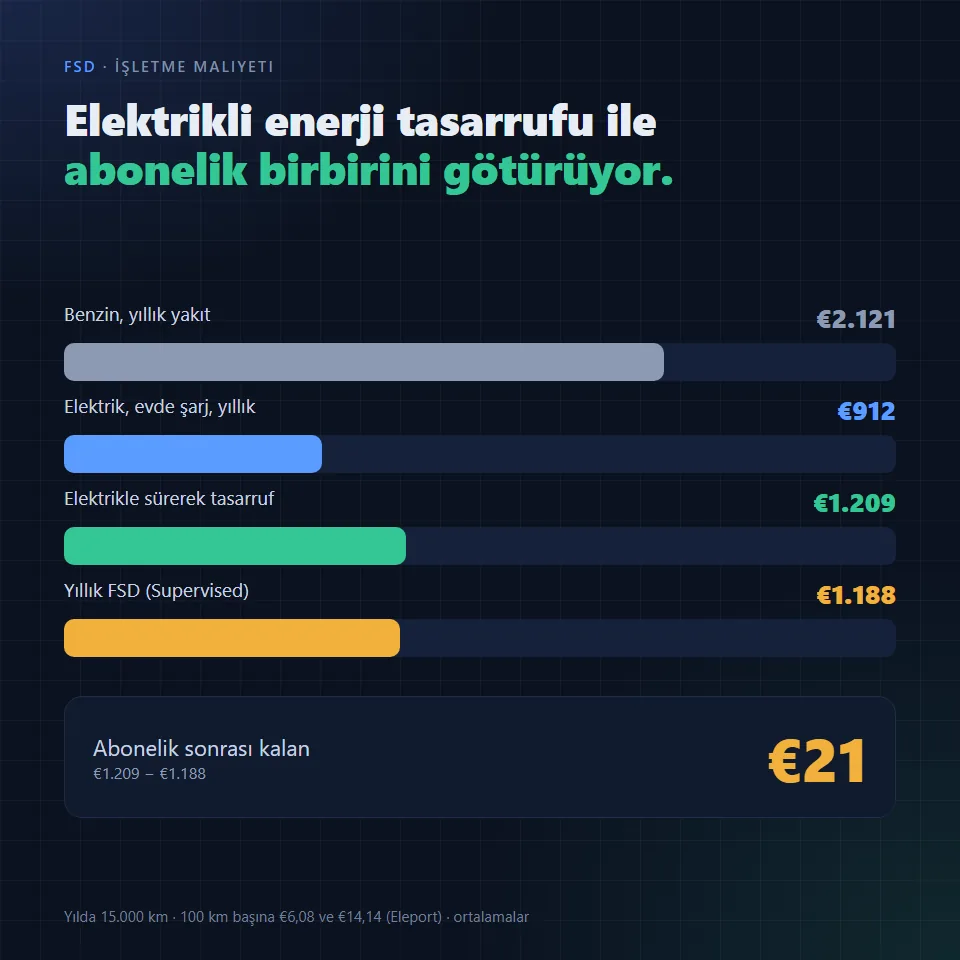
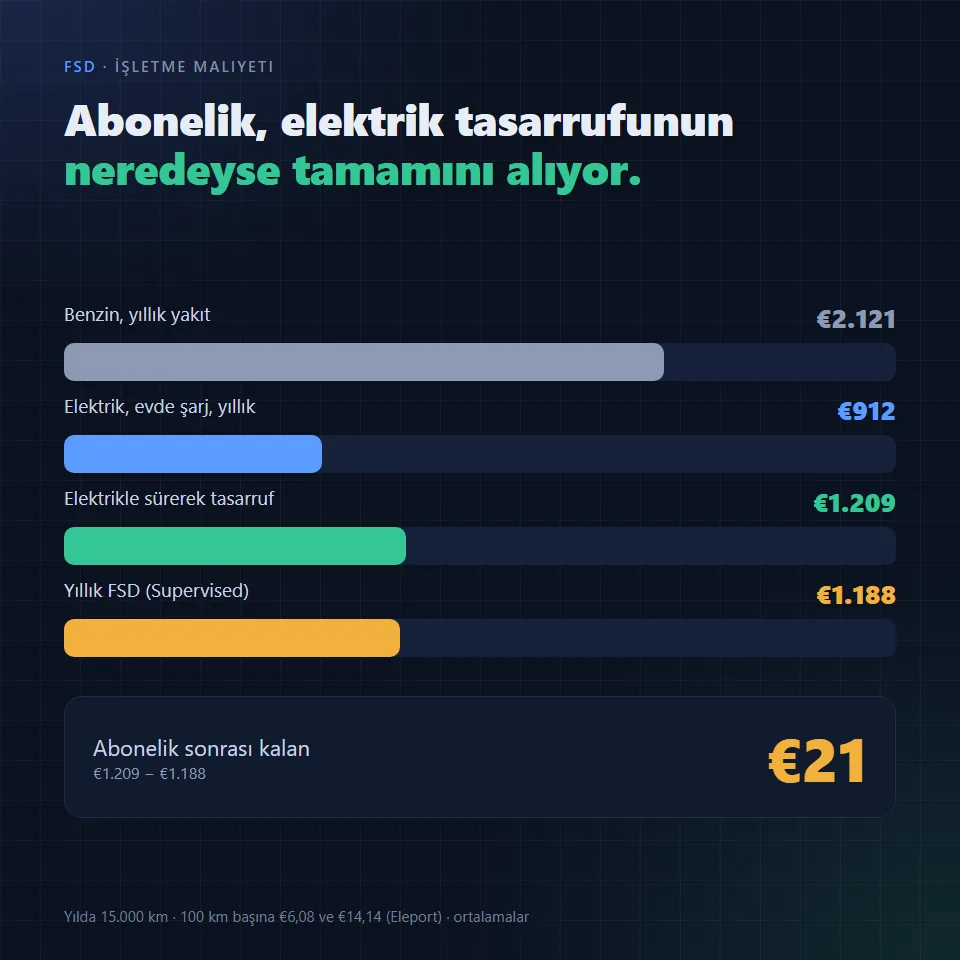
fix: address review of the Tesla FSD draft (lane centering, article cite, hedges, cover)
Basic Autopilot claim narrowed to lane centering, GSR cited without article
number, eleven countries, softer wording, Dick Lovett flagged as low
confidence, balanced cover, chart titles say nearly.

Changed region(s): [[0.0625, 0.0938, 0.7812, 0.2188]]

diff --git a/blog/content/tesla-fsd-subscription-europe/nl.md b/blog/content/tesla-fsd-subscription-europe/nl.md
@@ -7,7 +7,7 @@ kind: essay
 status: hypothesis
 draft: true
 evidence:
-  confidence: 'Gemiddeld. De prijzen en kostentabellen zijn mijn eigen berekeningen met cijfers uit de bronnen. De bronnen zijn nieuws- en vergelijkingssites, gelezen op 2026-11-19, en prijzen in een configurator kunnen veranderen. Het voorstel is mijn mening, geen bevinding.'
+  confidence: 'Gemiddeld. De prijzen en kostentabellen zijn mijn eigen berekeningen met cijfers uit de bronnen. De bronnen zijn nieuws- en vergelijkingssites, gelezen op 2026-11-19, en prijzen in een configurator kunnen veranderen. De Britse onderhoudscijfers komen uit een zoekresultaat omdat de pagina zelf niet te openen was; lees ze met lage zekerheid. Het voorstel is mijn mening, geen bevinding.'
   basedOn:
     - 'Openbare berichtgeving over Tesla FSD (Supervised) in Nederland en Europa: Electrek, teslablog.eu, ArenaEV, Not a Tesla App en andere, onderaan vermeld'
     - 'Een vergelijking van energiekosten (Eleport) en Britse onderhoudscijfers (Dick Lovett)'
@@ -20,6 +20,7 @@ aiAssistance:
   assisted:
     - 'Claude controleerde elke bewering in mijn concept aan de hand van de genoemde pagina’s en markeerde wat die pagina’s niet ondersteunen'
     - 'Claude rekende de kostentabellen na en maakte de grafieken'
+    - 'Claude bewerkte mijn formuleringen, voegde de bronlinks en de voorbehouden in het juridische deel toe en verwerkte de correcties uit de feitencontrole'
     - 'Claude zette mijn concept om naar het blogformaat; ik beslis wat er wordt gepubliceerd'
 translation:
   from: 2026-11-19
@@ -44,9 +45,9 @@ Deze punten komen uit openbare bronnen, die onderaan dit artikel staan.
 
 - FSD (Supervised) is goedgekeurd in Nederland. De RDW keurde het op 10 april 2026 goed voor auto’s met Hardware 4, en Electrek meldt het als de eerste goedkeuring in Europa ([Electrek, 14 april 2026](https://electrek.co/2026/04/14/tesla-fsd-europe-hw3-owners-dutch-claim/)).
 - In Nederland kost FSD (Supervised) €99 per maand na een proefperiode van een maand ([teslablog.eu](https://teslablog.eu/blog/tesla-fsd-vs-enhanced-autopilot-europe-2026/), bijgewerkt op 3 oktober 2026; [Not a Tesla App](https://www.notateslaapp.com/news/3956/tesla-launches-fsd-subscriptions-in-the-netherlands)).
-- Eenmalige aankoop is niet meer mogelijk. Die optie eindigde op 15 mei 2026 in Nederland en op 21 mei in de rest van Europa ([Not a Tesla App](https://www.notateslaapp.com/news/4104/tesla-to-end-one-time-fsd-purchases-across-europe-this-month), [InsideEVs](https://insideevs.com/news/796684/tesla-fsd-subscription-europe/)). Tot dan kostte het €7.500 in de Nederlandse configurator ([Electrek, 12 mei 2026](https://electrek.co/2026/05/12/tesla-removes-basic-autopilot-netherlands-fsd-only/)). *[EIGENAARSVAK: controleer op de dag van publicatie tesla.com/nl_nl en schrijf op wat de configurator toont.]*
-- Electrek meldt dat de Nederlandse configurator Basic Autopilot (rijstrookcentrering en adaptieve cruisecontrol) niet meer standaard aanbiedt bij nieuwe bestellingen; de basisauto houdt alleen de noodrijstrookassistentie die de EU voorschrijft ([Electrek, 12 mei 2026](https://electrek.co/2026/05/12/tesla-removes-basic-autopilot-netherlands-fsd-only/)). *[EIGENAARSVAK: controleer dit op uw eigen auto en voeg uw screenshot toe.]*
-- Wettelijk verplichte veiligheidsfuncties blijven standaard. Onder de Europese General Safety Regulation zijn automatisch noodremmen en noodrijstrookassistentie verplicht op nieuwe auto’s ([Verordening (EU) 2019/2144, artikel 7](https://eur-lex.europa.eu/legal-content/EN/TXT/?uri=CELEX:32019R2144)) en vallen ze niet onder het abonnement. Dit artikel gaat over rijassistentie die apart wordt verkocht, niet over wettelijk verplichte veiligheidsfuncties.
+- Eenmalige aankoop is niet meer mogelijk. Die optie eindigde op 15 mei 2026 in Nederland en op 21 mei in het grootste deel van de rest van Europa ([Not a Tesla App](https://www.notateslaapp.com/news/4104/tesla-to-end-one-time-fsd-purchases-across-europe-this-month), [InsideEVs](https://insideevs.com/news/796684/tesla-fsd-subscription-europe/)). Tot dan kostte het €7.500 in de Nederlandse configurator ([Electrek, 12 mei 2026](https://electrek.co/2026/05/12/tesla-removes-basic-autopilot-netherlands-fsd-only/)). *[EIGENAARSVAK: controleer op de dag van publicatie tesla.com/nl_nl en schrijf op wat de configurator toont.]*
+- Electrek meldt dat de Nederlandse basisauto niet langer rijstrookcentrering (Autosteer) heeft en dat Basic Autopilot bij nieuwe bestellingen niet meer als optie wordt aangeboden; de basisauto houdt alleen de noodrijstrookassistentie die de EU voorschrijft ([Electrek, 12 mei 2026](https://electrek.co/2026/05/12/tesla-removes-basic-autopilot-netherlands-fsd-only/)). *[EIGENAARSVAK: controleer dit op uw eigen auto, voeg uw screenshot toe en schrijf of adaptieve cruisecontrol nog is inbegrepen.]*
+- Wettelijk verplichte veiligheidsfuncties blijven standaard. Onder de Europese General Safety Regulation zijn automatisch noodremmen en noodrijstrookassistentie verplicht op nieuwe auto’s ([Verordening (EU) 2019/2144](https://eur-lex.europa.eu/legal-content/EN/TXT/?uri=CELEX:32019R2144)) en vallen ze niet onder het abonnement. Dit artikel gaat over rijassistentie die apart wordt verkocht, niet over wettelijk verplichte veiligheidsfuncties.
 
 ## De kosten over de levensduur van een auto
 
@@ -58,7 +59,7 @@ Bij €99 per maand loopt het abonnement zo op. De cijfers zijn 99 maal 12, 60 e
 | 5 jaar | €5.940 |
 | 10 jaar | €11.880 |
 
-Voor een auto die al rond de €55.000 kost ([catalogusprijs €54.990 voor de Model Y Premium Long Range AWD, AutoReview.nl, mei 2026](https://www.autoreview.nl/nieuws/id/37669/tesla-model-y-prijzen-1000-euro)), is dat een flinke extra uitgave. Ik verwacht dat veel huishoudens de functie uit laten staan, terwijl de hardware ervoor al in hun auto zit.
+Voor een auto die al rond de €55.000 kost ([catalogusprijs €54.990 voor de Model Y Premium Long Range AWD, AutoReview.nl, mei 2026](https://www.autoreview.nl/nieuws/id/37669/tesla-model-y-prijzen-1000-euro)), is dat een flinke extra uitgave. Volgens mij laten veel huishoudens de functie uit staan, terwijl de hardware ervoor al in hun auto zit.
 
 ## Waar de besparing van elektrisch rijden blijft
 
@@ -74,11 +75,11 @@ Voorbeeld bij 15.000 km per jaar met thuisladen, op basis van de kosten per 100 
 | FSD (Supervised)-abonnement per jaar | €1.188 | - | |
 | Resterende energiebesparing na abonnement | | | €21 |
 
-De berekening gaat uit van €6,08 per 100 km voor thuisladen en €14,14 per 100 km voor benzine. Ook de besparing op onderhoud is beperkt. Britse cijfers komen inclusief banden uit op £720 tot £1.180 per jaar voor een EV en £820 tot £1.530 voor een benzine- of dieselauto ([Dick Lovett](https://www.dicklovett.co.uk/electric/guides/electric-car-maintenance-costs)).
+De berekening gaat uit van €6,08 per 100 km voor thuisladen en €14,14 per 100 km voor benzine. Ook de besparing op onderhoud is beperkt. Britse cijfers komen inclusief banden uit op £720 tot £1.180 per jaar voor een EV en £820 tot £1.530 voor een benzine- of dieselauto ([Dick Lovett](https://www.dicklovett.co.uk/electric/guides/electric-car-maintenance-costs)). Ik kon die pagina zelf niet openen; de cijfers komen uit de samenvatting in het zoekresultaat, dus wees voorzichtig.
 
 Ik beweer niet dat elektrische auto’s in totaal duurder zijn. Aanschafprijs, belastingen, verzekering en waardeverlies veranderen het totaal. Mijn punt is specifieker: wie zich abonneert op FSD, levert bijna de hele energiebesparing in, en voor veel mensen is die besparing een belangrijke reden om over te stappen. Dat past slecht bij Tesla’s al langer bestaande missie om de wereldwijde overgang naar duurzame energie te versnellen, ook al heeft het bedrijf die zin inmiddels anders geformuleerd ([Gizmodo](https://gizmodo.com/elon-musk-has-changed-his-mission-statement-2000721530)).
 
-*Dit zijn EU-gemiddelden. Een Model Y verbruikt minder dan de aangenomen 21 kWh per 100 km, en Nederlandse tarieven wijken af. Uw uitkomst hangt af van uw stroomtarief, kilometers en lokale brandstofprijzen. [EIGENAARSVAK: vervangen door uw eigen cijfers na een paar maanden rijden.]*
+*Dit zijn EU-gemiddelden. Een Model Y kan minder verbruiken dan de aangenomen 21 kWh per 100 km, en Nederlandse tarieven wijken af. Uw uitkomst hangt af van uw stroomtarief, kilometers en lokale brandstofprijzen. [EIGENAARSVAK: vervangen door uw eigen cijfers na een paar maanden rijden.]*
 
 ## Waarom de huidige aanpak volgens mij moet veranderen
 
@@ -88,7 +89,7 @@ De hardware zit al in de auto en is al betaald. Elke nieuwe Model Y heeft de com
 
 Zonder aankoopoptie verdwijnt de keuze. Sommige eigenaren betalen liever maandelijks. Anderen betalen liever één keer en houden de functie zolang ze de auto hebben. Alleen een abonnement neemt die keuze weg.
 
-Wat standaard was, moet standaard blijven. Als rijstrookcentrering en adaptieve cruisecontrol eerder standaard waren, krijgen kopers voor dezelfde prijs minder als die achter een betaalmuur verdwijnen.
+Wat standaard was, moet standaard blijven. Als rijstrookcentrering eerder standaard was, krijgen kopers voor dezelfde prijs minder als die achter een betaalmuur verdwijnt.
 
 Europese kopers verwachten duidelijke en blijvende rechten. Onder de [Richtlijn oneerlijke handelspraktijken](https://eur-lex.europa.eu/legal-content/EN/TXT/?uri=CELEX:32005L0029) kan een praktijk misleidend zijn als de presentatie als geheel de gemiddelde consument waarschijnlijk misleidt, ongeacht de bedoeling. Ik zeg niet dat Tesla deze wet overtreedt. Ik zeg dat de Europese verwachtingen over transparantie en eigendom hoog zijn, en dat prijzen daarbij moeten passen.
 
@@ -111,17 +112,17 @@ Geen van deze regels verbiedt abonnementen. Samen weerspiegelen ze een Europees 
 - BMW bood in sommige markten abonnementen aan op functies zoals stoelverwarming. Na kritiek van klanten maakte BMW in 2023 bekend dat het hardwarefuncties zoals stoelverwarming niet langer als abonnement zou verkopen. BMW hield abonnementen voor software wel aan, ook voor rij- en parkeerassistentie ([Motor1, 7 september 2023](https://www.motor1.com/news/685653/bmw-heated-seat-subscription-dead-low-acceptance/)).
 - Tesla verkocht FSD in Europa zelf tot mei 2026 als eenmalige aankoop, in Nederland voor €7.500. Die optie terugbrengen is een terugkeer naar een model dat Tesla al kent.
 
-Volgens mij kan het aanpassen van een model dat klanten oneerlijk vinden, een merk juist sterker maken.
+Volgens mij kan het aanpassen van een model waar sommige klanten kritiek op hebben, een merk juist sterker maken.
 
 ## Andere zorgen van Europese eigenaren
 
 - Eigenaren met Hardware 3 die duizenden euro’s voor FSD betaalden, organiseren zich via [hw3claim.nl](https://hw3claim.nl). In juni 2026 meldde Electrek circa 7.000 eigenaren en de steun van advocatenkantoor Kennedy Van der Laan voor een collectieve actie ([Electrek, 18 juni 2026](https://electrek.co/2026/06/18/tesla-hw3-claim-netherlands-7000-owners-kennedy-van-der-laan/)). De site noemt nu ongeveer 9.000 deelnemers en zegt dat Tesla twee sommatiebrieven heeft afgewezen. Electrek citeerde de organisatoren in april ook met het doel eerst met Tesla te onderhandelen, met een juridische claim als alternatief.
-- FSD (Supervised) was in mei alleen in Nederland en Litouwen goedgekeurd ([ArenaEV, 23 mei 2026](https://www.arenaev.com/tesla_switches_to_subscriptiononly_full_selfdriving_in_europe-news-5907.php)). Medio november werd het in ongeveer tien Europese landen gemeld, met Finland als laatste ([Evannex](https://evannex.com/blogs/news/finland-becomes-the-11th-european-country-to-approve-tesla-fsd-with-a-new-name)). Frankrijk, Duitsland, Italië, Spanje, Zweden en het Verenigd Koninkrijk hoorden daar niet bij. Goedkeuring en marketing zijn verschillende dingen, daarom vraagt voorstel 6 om een duidelijk overzicht per land.
+- FSD (Supervised) was in mei alleen in Nederland en Litouwen goedgekeurd ([ArenaEV, 23 mei 2026](https://www.arenaev.com/tesla_switches_to_subscriptiononly_full_selfdriving_in_europe-news-5907.php)). Medio november werd het in elf Europese landen gemeld, met Finland als elfde ([Evannex](https://evannex.com/blogs/news/finland-becomes-the-11th-european-country-to-approve-tesla-fsd-with-a-new-name)). Frankrijk, Duitsland, Italië en Zweden stonden niet op die lijst. Goedkeuring en marketing zijn verschillende dingen, daarom vraagt voorstel 6 om een duidelijk overzicht per land.
 
 ## Zes voorstellen aan Tesla
 
 1. Breng de eenmalige aankoop terug. Laat eigenaren kiezen tussen een maandabonnement en een levenslange licentie die aan de auto gekoppeld is.
-2. Maak Basic Autopilot weer standaard. Als rijstrookcentrering en adaptieve cruisecontrol niet meer standaard zijn, moet elke nieuwe auto ze weer krijgen.
+2. Maak rijstrookcentrering weer standaard. Als die niet meer is inbegrepen, moet elke nieuwe auto haar weer krijgen.
 3. Voeg een goedkoper pakket toe, bijvoorbeeld alleen snelwegassistentie, met volledige FSD (Supervised) als premiumoptie.
 4. Bied vooruitbetaalde jaar- en meerjarenpakketten aan, met een korting die langere looptijden beloont.
 5. Maak een gekochte licentie overdraagbaar, zodat die bij verkoop bij de auto blijft.

diff --git a/blog/content/tesla-fsd-subscription-europe/tr.md b/blog/content/tesla-fsd-subscription-europe/tr.md
@@ -7,7 +7,7 @@ kind: essay
 status: hypothesis
 draft: true
 evidence:
-  confidence: 'Orta. Fiyatlar ve maliyet tabloları, kaynaklardaki rakamlardan kendi hesabımla çıkardığım değerler. Kaynaklar haber ve karşılaştırma siteleri, 2026-11-19’da okundu; yapılandırıcıdaki fiyatlar değişebilir. Öneri bir bulgu değil, benim görüşüm.'
+  confidence: 'Orta. Fiyatlar ve maliyet tabloları, kaynaklardaki rakamlardan kendi hesabımla çıkardığım değerler. Kaynaklar haber ve karşılaştırma siteleri, 2026-11-19’da okundu; yapılandırıcıdaki fiyatlar değişebilir. İngiltere bakım rakamları, sayfanın kendisi açılamadığı için bir arama sonucundan alındı; düşük güvenle okunmalı. Öneri bir bulgu değil, benim görüşüm.'
   basedOn:
     - 'Hollanda ve Avrupa’daki Tesla FSD (Supervised) hakkında kamuya açık haberler: Electrek, teslablog.eu, ArenaEV, Not a Tesla App ve diğerleri, sonda listelendi'
     - 'Bir enerji maliyeti karşılaştırması (Eleport) ve İngiltere bakım rakamları (Dick Lovett)'
@@ -20,6 +20,7 @@ aiAssistance:
   assisted:
     - 'Claude taslağımdaki her iddiayı atıf yapılan sayfalarla karşılaştırdı ve sayfaların desteklemediklerini işaretledi'
     - 'Claude maliyet tablolarını yeniden hesapladı ve grafikleri yaptı'
+    - 'Claude ifadelerimi düzenledi, kaynak linklerini, hukuki bölümdeki temkinli ifadeleri ve doğrulama kontrolünden gelen düzeltmeleri ekledi'
     - 'Claude taslağımı blog biçimine çevirdi; neyin yayımlanacağına ben karar veririm'
 translation:
   from: 2026-11-19
@@ -44,9 +45,9 @@ Bu bilgiler, yazının sonunda listelenen kamuya açık kaynaklardan alındı.
 
 - FSD (Supervised) Hollanda’da onaylandı. Hollanda araç kurumu RDW, 10 Nisan 2026’da Hardware 4’lü araçlar için onayladı; Electrek bunu Avrupa’daki ilk onay olarak bildiriyor ([Electrek, 14 Nisan 2026](https://electrek.co/2026/04/14/tesla-fsd-europe-hw3-owners-dutch-claim/)).
 - Hollanda’da FSD (Supervised), bir aylık deneme süresinin ardından aylık €99 ([teslablog.eu](https://teslablog.eu/blog/tesla-fsd-vs-enhanced-autopilot-europe-2026/), 3 Ekim 2026’da güncellendi; [Not a Tesla App](https://www.notateslaapp.com/news/3956/tesla-launches-fsd-subscriptions-in-the-netherlands)).
-- Tek seferlik satın alma seçeneği kalktı. Hollanda’da 15 Mayıs 2026’da, Avrupa’nın geri kalanında 21 Mayıs’ta sona erdi ([Not a Tesla App](https://www.notateslaapp.com/news/4104/tesla-to-end-one-time-fsd-purchases-across-europe-this-month), [InsideEVs](https://insideevs.com/news/796684/tesla-fsd-subscription-europe/)). O zamana kadar Hollanda yapılandırıcısında €7.500’dü ([Electrek, 12 Mayıs 2026](https://electrek.co/2026/05/12/tesla-removes-basic-autopilot-netherlands-fsd-only/)). *[SAHİP ALANI: yayın günü tesla.com/nl_nl adresini kontrol et ve yapılandırıcının ne gösterdiğini yaz.]*
-- Electrek, Hollanda yapılandırıcısının yeni siparişlerde Basic Autopilot’u (şerit ortalama ve adaptif hız sabitleyici) artık standart olarak sunmadığını bildiriyor; baz araçta yalnızca AB yasasının zorunlu kıldığı acil şerit koruma kalıyor ([Electrek, 12 Mayıs 2026](https://electrek.co/2026/05/12/tesla-removes-basic-autopilot-netherlands-fsd-only/)). *[SAHİP ALANI: kendi aracında doğrula ve ekran görüntünü ekle.]*
-- AB yasasının zorunlu kıldığı güvenlik özellikleri standart kalıyor. AB Genel Güvenlik Yönetmeliği’ne göre otomatik acil fren ve acil şerit koruma yeni araçlarda zorunlu ([Yönetmelik (AB) 2019/2144, madde 7](https://eur-lex.europa.eu/legal-content/EN/TXT/?uri=CELEX:32019R2144)) ve aboneliğe dahil değil. Bu yazı yasal zorunlu güvenlik özellikleriyle değil, ayrıca satılan sürüş destek özellikleriyle ilgili.
+- Tek seferlik satın alma seçeneği kalktı. Hollanda’da 15 Mayıs 2026’da, Avrupa’nın geri kalanının çoğunda 21 Mayıs’ta sona erdi ([Not a Tesla App](https://www.notateslaapp.com/news/4104/tesla-to-end-one-time-fsd-purchases-across-europe-this-month), [InsideEVs](https://insideevs.com/news/796684/tesla-fsd-subscription-europe/)). O zamana kadar Hollanda yapılandırıcısında €7.500’dü ([Electrek, 12 Mayıs 2026](https://electrek.co/2026/05/12/tesla-removes-basic-autopilot-netherlands-fsd-only/)). *[SAHİP ALANI: yayın günü tesla.com/nl_nl adresini kontrol et ve yapılandırıcının ne gösterdiğini yaz.]*
+- Electrek, Hollanda’daki baz araçta artık şerit ortalamanın (Autosteer) gelmediğini ve yeni siparişlerde Basic Autopilot’un artık seçenek olarak sunulmadığını bildiriyor; baz araçta yalnızca AB yasasının zorunlu kıldığı acil şerit koruma kalıyor ([Electrek, 12 Mayıs 2026](https://electrek.co/2026/05/12/tesla-removes-basic-autopilot-netherlands-fsd-only/)). *[SAHİP ALANI: kendi aracında doğrula, ekran görüntünü ekle ve adaptif hız sabitleyicinin hâlâ dahil olup olmadığını yaz.]*
+- AB yasasının zorunlu kıldığı güvenlik özellikleri standart kalıyor. AB Genel Güvenlik Yönetmeliği’ne göre otomatik acil fren ve acil şerit koruma yeni araçlarda zorunlu ([Yönetmelik (AB) 2019/2144](https://eur-lex.europa.eu/legal-content/EN/TXT/?uri=CELEX:32019R2144)) ve aboneliğe dahil değil. Bu yazı yasal zorunlu güvenlik özellikleriyle değil, ayrıca satılan sürüş destek özellikleriyle ilgili.
 
 ## Bir aracın ömrü boyunca maliyet
 
@@ -74,11 +75,11 @@ Yılda 15.000 km ve evde şarj için, Avrupa’daki bir karşılaştırmanın ([
 | Yıllık FSD (Supervised) aboneliği | €1.188 | - | |
 | Abonelik sonrası kalan enerji tasarrufu | | | €21 |
 
-Hesaplamada evde şarj için 100 km başına €6,08, benzin için €14,14 baz alındı. Bakımdaki tasarruf da sınırlı. İngiltere verilerine göre lastik dahil yıllık bakım, elektrikli araçta £720 ile £1.180, benzinli veya dizel araçta £820 ile £1.530 arasında ([Dick Lovett](https://www.dicklovett.co.uk/electric/guides/electric-car-maintenance-costs)).
+Hesaplamada evde şarj için 100 km başına €6,08, benzin için €14,14 baz alındı. Bakımdaki tasarruf da sınırlı. İngiltere verilerine göre lastik dahil yıllık bakım, elektrikli araçta £720 ile £1.180, benzinli veya dizel araçta £820 ile £1.530 arasında ([Dick Lovett](https://www.dicklovett.co.uk/electric/guides/electric-car-maintenance-costs)). Bu sayfayı kendim açamadım; rakamlar arama sonucundaki özetten, bu yüzden temkinle okuyun.
 
 Elektrikli araçların toplamda daha pahalı olduğunu iddia etmiyorum. Satın alma fiyatı, vergiler, sigorta ve değer kaybı toplamı değiştirir. Söylediğim daha dar kapsamlı: FSD’ye abone olan bir sahip, enerji tasarrufunun neredeyse tamamını geri ödüyor ve birçok insan için bu tasarruf elektrikliye geçmenin başlıca sebeplerinden biri. Bu, Tesla’nın dünyanın sürdürülebilir enerjiye geçişini hızlandırma yönündeki uzun süredir bilinen misyonuyla zor bağdaşıyor; şirket misyon cümlesini sonradan değiştirmiş olsa da ([Gizmodo](https://gizmodo.com/elon-musk-has-changed-his-mission-statement-2000721530)).
 
-*Bunlar AB ortalamaları. Bir Model Y, varsayılan 100 km başına 21 kWh’den daha az tüketiyor ve Hollanda tarifeleri farklı. Sonuç elektrik tarifene, kilometrene ve yerel yakıt fiyatlarına bağlı. [SAHİP ALANI: birkaç aylık sürüşten sonra kendi rakamlarınla değiştir.]*
+*Bunlar AB ortalamaları. Bir Model Y varsayılan 100 km başına 21 kWh’den daha az tüketebilir ve Hollanda tarifeleri farklı. Sonuç elektrik tarifene, kilometrene ve yerel yakıt fiyatlarına bağlı. [SAHİP ALANI: birkaç aylık sürüşten sonra kendi rakamlarınla değiştir.]*
 
 ## Mevcut yaklaşım neden değişmeli
 
@@ -88,7 +89,7 @@ Donanım zaten araçta ve parası ödendi. Her yeni Model Y, Tesla’nın FSD (S
 
 Satın alma seçeneğinin kalkması tercih hakkını ortadan kaldırıyor. Bazı sahipler aylık ödemeyi tercih eder. Bazıları ise bir kez ödeyip özelliği araç kendisinde olduğu sürece kullanmak ister. Sadece abonelik sunmak bu tercihi elinden alıyor.
 
-Standart olan, standart kalmalı. Şerit ortalama ve adaptif hız sabitleyici daha önce standartsa, bunların ücretli pakete alınması aynı fiyata daha azı demek.
+Standart olan, standart kalmalı. Şerit ortalama daha önce standartsa, onun ücretli pakete alınması aynı fiyata daha azı demek.
 
 Avrupalı alıcılar açık ve kalıcı haklar bekler. [Haksız Ticari Uygulamalar Direktifi](https://eur-lex.europa.eu/legal-content/EN/TXT/?uri=CELEX:32005L0029) uyarınca bir uygulama, genel sunumu ortalama tüketiciyi yanıltabiliyorsa, kasıt olmasa da yanıltıcı sayılabilir. Tesla’nın bu yasayı çiğnediğini söylemiyorum. Avrupa’da şeffaflık ve sahiplik beklentisinin yüksek olduğunu ve fiyatlandırmanın buna uyması gerektiğini söylüyorum.
 
@@ -111,17 +112,17 @@ Bu kuralların hiçbiri aboneliği yasaklamıyor. Birlikte bir Avrupa ilkesini y
 - BMW, bazı pazarlarda ısıtmalı koltuk gibi özellikler için abonelik sundu. Müşteri eleştirilerinin ardından 2023’te ısıtmalı koltuk gibi donanım özelliklerini artık abonelikle satmayacağını açıkladı. BMW yazılım abonelikleri, sürüş ve park desteği dahil, sürdürüyor ([Motor1, 7 Eylül 2023](https://www.motor1.com/news/685653/bmw-heated-seat-subscription-dead-low-acceptance/)).
 - Tesla’nın kendisi FSD’yi Avrupa’da Mayıs 2026’ya kadar tek seferlik satın alma ile sattı; Hollanda’da fiyatı €7.500’dü. Bu seçeneği geri getirmek, Tesla’nın zaten bildiği bir modele dönmek olur.
 
-Bence müşterilerin adil bulmadığı bir modeli değiştirmek markayı güçlendirebilir.
+Bence bazı müşterilerin eleştirdiği bir modeli değiştirmek markayı güçlendirebilir.
 
 ## Avrupalı sahiplerin diğer kaygıları
 
 - FSD için binlerce euro ödemiş Hardware 3 sahipleri [hw3claim.nl](https://hw3claim.nl) üzerinden örgütleniyor. Electrek Haziran 2026’da yaklaşık 7.000 sahibe ulaşıldığını ve toplu dava için Kennedy Van der Laan hukuk bürosunun desteğini bildirdi ([Electrek, 18 Haziran 2026](https://electrek.co/2026/06/18/tesla-hw3-claim-netherlands-7000-owners-kennedy-van-der-laan/)). Site şimdi yaklaşık 9.000 katılımcı gösteriyor ve Tesla’nın iki ihtarnameyi reddettiğini söylüyor. Electrek ayrıca Nisan’da organizatörlerin önce Tesla ile müzakere etmeyi, olmazsa hukuki yolu hedeflediğini aktardı.
-- FSD (Supervised) Mayıs’ta yalnızca Hollanda ve Litvanya’da onaylıydı ([ArenaEV, 23 Mayıs 2026](https://www.arenaev.com/tesla_switches_to_subscriptiononly_full_selfdriving_in_europe-news-5907.php)). Kasım ortasında yaklaşık on Avrupa ülkesinde olduğu bildirildi, sonuncusu Finlandiya ([Evannex](https://evannex.com/blogs/news/finland-becomes-the-11th-european-country-to-approve-tesla-fsd-with-a-new-name)). Fransa, Almanya, İtalya, İspanya, İsveç ve Birleşik Krallık bunların arasında değildi. Onay ile pazarlama ayrı şeyler; altıncı öneri bu yüzden ülke ülke açık bir görünüm istiyor.
+- FSD (Supervised) Mayıs’ta yalnızca Hollanda ve Litvanya’da onaylıydı ([ArenaEV, 23 Mayıs 2026](https://www.arenaev.com/tesla_switches_to_subscriptiononly_full_selfdriving_in_europe-news-5907.php)). Kasım ortasında on bir Avrupa ülkesinde olduğu bildirildi, on birincisi Finlandiya ([Evannex](https://evannex.com/blogs/news/finland-becomes-the-11th-european-country-to-approve-tesla-fsd-with-a-new-name)). Fransa, Almanya, İtalya ve İsveç bu listede yoktu. Onay ile pazarlama ayrı şeyler; altıncı öneri bu yüzden ülke ülke açık bir görünüm istiyor.
 
 ## Tesla’ya altı öneri
 
 1. Tek seferlik satın almayı geri getirin. Sahipler aylık abonelik ile araca bağlı ömür boyu lisans arasında seçim yapabilsin.
-2. Basic Autopilot’u yeniden standart yapın. Şerit ortalama ve adaptif hız sabitleyici artık dahil değilse, her yeni araçla yeniden gelmeli.
+2. Şerit ortalamayı yeniden standart yapın. Artık dahil değilse, her yeni araçla yeniden gelmeli.
 3. Daha uygun fiyatlı bir paket ekleyin; örneğin sadece otoyol asistanı, tam FSD (Supervised) ise premium seçenek olsun.
 4. Uzun süreli taahhüdü ödüllendiren indirimli, peşin ödemeli yıllık ve çok yıllık paketler sunun.
 5. Satın alınan lisansı devredilebilir yapın, araç satıldığında araçla birlikte kalsın.

diff --git a/blog/content/tesla-fsd-subscription-europe/en.md b/blog/content/tesla-fsd-subscription-europe/en.md
@@ -8,7 +8,7 @@ status: hypothesis
 draft: true
 cover: cover-subscription-abstract.webp
 evidence:
-  confidence: 'Medium. The prices and the cost tables are my own arithmetic from the figures in the sources. The sources are news and comparison sites, read on 2026-11-19, and prices in a configurator can change. The proposal is my opinion, not a finding.'
+  confidence: 'Medium. The prices and the cost tables are my own arithmetic from the figures in the sources. The sources are news and comparison sites, read on 2026-11-19, and prices in a configurator can change. The UK maintenance figures come from a search result because the page itself could not be opened, so treat them as low confidence. The proposal is my opinion, not a finding.'
   basedOn:
     - 'Public reporting on Tesla FSD (Supervised) in the Netherlands and Europe: Electrek, teslablog.eu, TeslAnt, Hoopoz, ArenaEV, autoevolution and Not a Tesla App, listed at the end'
     - 'An energy cost comparison (Eleport) and UK maintenance figures (Dick Lovett)'
@@ -21,6 +21,7 @@ aiAssistance:
   assisted:
     - 'Claude checked each claim in my draft against the cited pages and flagged the ones the pages do not support'
     - 'Claude recomputed the cost tables and made the charts'
+    - 'Claude edited my wording, added the source links and the hedges in the legal section, and applied the corrections from the fact check'
     - 'Claude converted my draft to the blog format; I decide what is published'
 ---
 
@@ -42,9 +43,9 @@ These points come from public sources, listed at the end of this article.
 
 - FSD (Supervised) is approved in the Netherlands. The Dutch vehicle authority RDW approved it on 10 April 2026 for cars with Hardware 4, and Electrek reports it as the first approval in Europe ([Electrek, 14 April 2026](https://electrek.co/2026/04/14/tesla-fsd-europe-hw3-owners-dutch-claim/)).
 - In the Netherlands, FSD (Supervised) costs €99 a month after a one-month trial ([teslablog.eu](https://teslablog.eu/blog/tesla-fsd-vs-enhanced-autopilot-europe-2026/), updated 3 October 2026; [Not a Tesla App](https://www.notateslaapp.com/news/3956/tesla-launches-fsd-subscriptions-in-the-netherlands)).
-- The one-time purchase option is gone. It ended on 15 May 2026 in the Netherlands and on 21 May in the rest of Europe ([Not a Tesla App](https://www.notateslaapp.com/news/4104/tesla-to-end-one-time-fsd-purchases-across-europe-this-month), [InsideEVs](https://insideevs.com/news/796684/tesla-fsd-subscription-europe/)). Until then it cost €7,500 in the Dutch configurator ([Electrek, 12 May 2026](https://electrek.co/2026/05/12/tesla-removes-basic-autopilot-netherlands-fsd-only/)). *[OWNER SLOT: check tesla.com/nl_nl on the day you publish and say what the configurator shows.]*
-- Electrek reports that the Dutch configurator no longer offers Basic Autopilot (lane centering and traffic-aware cruise control) as a standard feature on new orders; the base car keeps only the emergency lane-keeping that EU law requires ([Electrek, 12 May 2026](https://electrek.co/2026/05/12/tesla-removes-basic-autopilot-netherlands-fsd-only/)). *[OWNER SLOT: confirm on your own car and add your screenshot.]*
-- Safety features required by EU law stay standard. Under the EU General Safety Regulation, automatic emergency braking and emergency lane-keeping are mandatory on new cars ([Regulation (EU) 2019/2144, Article 7](https://eur-lex.europa.eu/legal-content/EN/TXT/?uri=CELEX:32019R2144)) and are not part of the subscription. This article is about driver assistance that is sold separately, not about safety features required by law.
+- The one-time purchase option is gone. It ended on 15 May 2026 in the Netherlands and on 21 May in most of the rest of Europe ([Not a Tesla App](https://www.notateslaapp.com/news/4104/tesla-to-end-one-time-fsd-purchases-across-europe-this-month), [InsideEVs](https://insideevs.com/news/796684/tesla-fsd-subscription-europe/)). Until then it cost €7,500 in the Dutch configurator ([Electrek, 12 May 2026](https://electrek.co/2026/05/12/tesla-removes-basic-autopilot-netherlands-fsd-only/)). *[OWNER SLOT: check tesla.com/nl_nl on the day you publish and say what the configurator shows.]*
+- Electrek reports that the Dutch base car no longer comes with lane centering (Autosteer) and that Basic Autopilot is no longer an option on new orders; the base car keeps only the emergency lane-keeping that EU law requires ([Electrek, 12 May 2026](https://electrek.co/2026/05/12/tesla-removes-basic-autopilot-netherlands-fsd-only/)). *[OWNER SLOT: confirm on your own car, add your screenshot, and say whether adaptive cruise control is still included.]*
+- Safety features required by EU law stay standard. Under the EU General Safety Regulation, automatic emergency braking and emergency lane-keeping are mandatory on new cars ([Regulation (EU) 2019/2144](https://eur-lex.europa.eu/legal-content/EN/TXT/?uri=CELEX:32019R2144)) and are not part of the subscription. This article is about driver assistance that is sold separately, not about safety features required by law.
 
 ## The cost over the life of a car
 
@@ -72,11 +73,11 @@ Example for 15,000 km a year with home charging, using the cost per 100 km from 
 | FSD (Supervised) subscription per year | €1,188 | - | |
 | Energy saving left after the subscription | | | €21 |
 
-The calculation uses €6.08 per 100 km for home charging and €14.14 per 100 km for petrol. Maintenance savings are also modest. UK figures put yearly maintenance, including tires, at £720 to £1,180 for an EV and £820 to £1,530 for a petrol or diesel car ([Dick Lovett](https://www.dicklovett.co.uk/electric/guides/electric-car-maintenance-costs)).
+The calculation uses €6.08 per 100 km for home charging and €14.14 per 100 km for petrol. Maintenance savings are also modest. UK figures put yearly maintenance, including tires, at £720 to £1,180 for an EV and £820 to £1,530 for a petrol or diesel car ([Dick Lovett](https://www.dicklovett.co.uk/electric/guides/electric-car-maintenance-costs)). I could not open that page myself; the figures come from its search-result summary, so treat them with caution.
 
 I am not claiming that electric cars cost more overall. Purchase price, taxes, insurance and depreciation all change the total. My point is narrower: an owner who subscribes to FSD gives back almost the entire energy saving, and for many people that saving is a main reason to switch. That sits uneasily with Tesla's long-standing mission to accelerate the world's transition to sustainable energy, even if the company has since rephrased it ([Gizmodo](https://gizmodo.com/elon-musk-has-changed-his-mission-statement-2000721530)).
 
-*These are EU averages. A Model Y uses less than the 21 kWh per 100 km assumed, and Dutch tariffs differ. Your result depends on your electricity tariff, mileage and local fuel prices. [OWNER SLOT: replace with your own figures after a few months of driving.]*
+*These are EU averages. A Model Y may use less than the 21 kWh per 100 km assumed, and Dutch tariffs differ. Your result depends on your electricity tariff, mileage and local fuel prices. [OWNER SLOT: replace with your own figures after a few months of driving.]*
 
 ## Why I think the current approach should change
 
@@ -86,7 +87,7 @@ The hardware is already in the car and already paid for. Every new Model Y comes
 
 Removing the purchase option removes choice. Some owners prefer to pay monthly. Others prefer to pay once and keep the feature for the life of the car. A subscription-only model takes that choice away.
 
-What used to be standard should stay standard. If lane centering and adaptive cruise control were included before, moving them behind a paywall gives buyers less for the same price.
+What used to be standard should stay standard. If lane centering was included before, moving it behind a paywall gives buyers less for the same price.
 
 European buyers expect clear, lasting rights. Under the [Unfair Commercial Practices Directive](https://eur-lex.europa.eu/legal-content/EN/TXT/?uri=CELEX:32005L0029), a practice can be misleading if its overall presentation is likely to deceive the average consumer, whatever the intent. I am not saying Tesla breaks this law. I am saying that European expectations of transparency and ownership are high, and pricing should reflect that.
 
@@ -109,17 +110,17 @@ None of these rules forbids subscriptions. Together, they reflect a European pri
 - BMW offered subscriptions for features such as heated seats in some markets. After customer criticism, BMW said in 2023 that it would stop selling hardware features like heated seats as a subscription. BMW did keep subscriptions for software, including driving and parking assistance ([Motor1, 7 September 2023](https://www.motor1.com/news/685653/bmw-heated-seat-subscription-dead-low-acceptance/)).
 - Tesla itself sold FSD in Europe as a one-time purchase until May 2026, at €7,500 in the Netherlands. Bringing that option back would be a return to a model Tesla already knows.
 
-In my view, adjusting a model that customers call unfair can strengthen a brand.
+In my view, adjusting a model that some customers criticise can strengthen a brand.
 
 ## Other concerns from European owners
 
 - Hardware 3 owners who paid several thousand euros for FSD have organized through [hw3claim.nl](https://hw3claim.nl). In June 2026 Electrek reported around 7,000 owners and the backing of the law firm Kennedy Van der Laan for a collective action ([Electrek, 18 June 2026](https://electrek.co/2026/06/18/tesla-hw3-claim-netherlands-7000-owners-kennedy-van-der-laan/)). The site now lists about 9,000 participants and says Tesla has rejected two demand letters. Electrek also quoted the organizers in April as aiming to negotiate with Tesla first, with a legal claim as the alternative.
-- FSD (Supervised) was approved in only the Netherlands and Lithuania in May ([ArenaEV, 23 May 2026](https://www.arenaev.com/tesla_switches_to_subscriptiononly_full_selfdriving_in_europe-news-5907.php)). By mid-November it was reported in about ten European countries, with Finland the latest ([Evannex](https://evannex.com/blogs/news/finland-becomes-the-11th-european-country-to-approve-tesla-fsd-with-a-new-name)). France, Germany, Italy, Spain, Sweden and the UK were not among them. Approval and marketing are different things, which is why proposal 6 asks for a clear country-by-country view.
+- FSD (Supervised) was approved in only the Netherlands and Lithuania in May ([ArenaEV, 23 May 2026](https://www.arenaev.com/tesla_switches_to_subscriptiononly_full_selfdriving_in_europe-news-5907.php)). By mid-November it was reported in eleven European countries, with Finland the 11th ([Evannex](https://evannex.com/blogs/news/finland-becomes-the-11th-european-country-to-approve-tesla-fsd-with-a-new-name)). France, Germany, Italy and Sweden were not on that list. Approval and marketing are different things, which is why proposal 6 asks for a clear country-by-country view.
 
 ## Six proposals to Tesla
 
 1. Bring back a one-time purchase. Let owners choose between a monthly subscription and a lifetime license tied to the car.
-2. Restore Basic Autopilot as standard. If lane centering and traffic-aware cruise control are no longer included, every new car should come with them again.
+2. Restore lane centering as standard. If it is no longer included, every new car should come with it again.
 3. Add a lower-priced tier, for example highway assistance only, with full FSD (Supervised) as the premium option.
 4. Offer prepaid annual and multi-year plans with a discount that rewards longer commitments.
 5. Make a purchased license transferable, so it stays with the car when it is sold.
